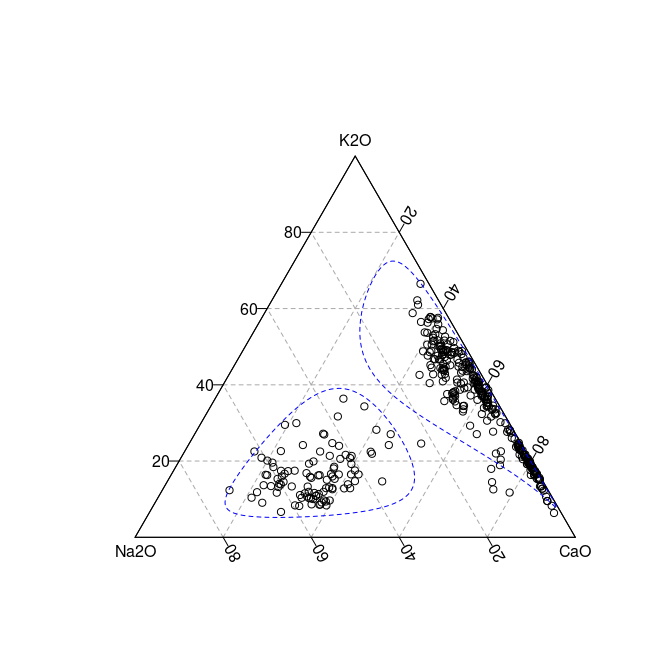
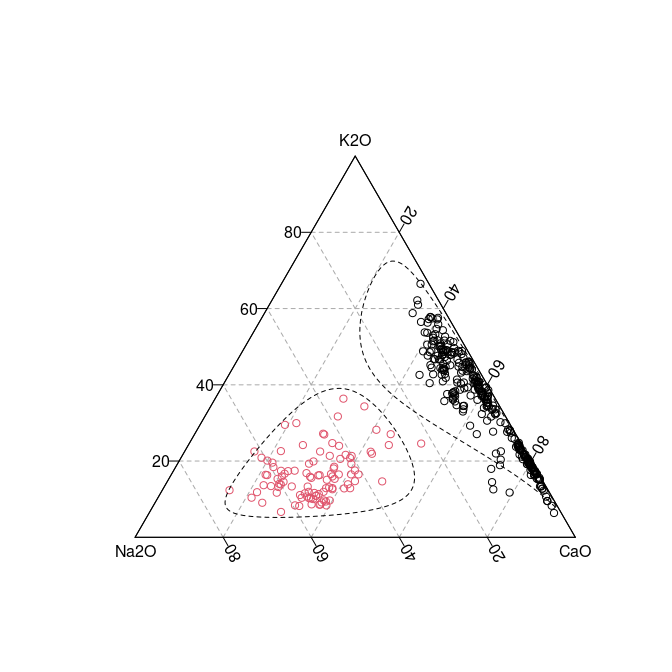
Update README

diff --git a/README.md b/README.md
@@ -9,9 +9,13 @@
 [![codecov](https://codecov.io/gh/tesselle/isopleuros/branch/main/graph/badge.svg)](https://app.codecov.io/gh/tesselle/isopleuros)
 [![CodeFactor](https://www.codefactor.io/repository/github/tesselle/isopleuros/badge/main)](https://www.codefactor.io/repository/github/tesselle/isopleuros/overview/main)
 
-[![Project Status: WIP – Initial development is in progress, but there
-has not yet been a stable, usable release suitable for the
-public.](https://www.repostatus.org/badges/latest/wip.svg)](https://www.repostatus.org/#wip)
+<a href="https://tesselle.r-universe.dev" class="pkgdown-devel"><img
+src="https://tesselle.r-universe.dev/badges/isopleuros"
+alt="r-universe" /></a>
+
+[![Project Status: Active – The project has reached a stable, usable
+state and is being actively
+developed.](https://www.repostatus.org/badges/latest/active.svg)](https://www.repostatus.org/#active)
 <!-- badges: end -->
 
 ## Overview
@@ -50,9 +54,6 @@ remotes::install_github("tesselle/isopleuros")
 library(isopleuros)
 ```
 
-**isopleuros** tries to mimic the way **graphics** works as much as
-possible.
-
 ``` r
 ## Install extra package (if needed)
 # install.packages("folio")
@@ -64,14 +65,18 @@ data("verre", package = "folio")
 coda <- verre[, c("Na2O", "CaO", "K2O")]
 
 ## Ternary plot
-ternary_plot(coda, panel.first = ternary_grid())
+ternary_plot(
+  x = coda, 
+  panel.first = ternary_grid(),
+  col = as.factor(coda$Na2O > 5),
+)
 
 ## Split data
 groups <- split(coda, f = coda$Na2O > 5)
 
 ## Add tolerance ellipses
 for (group in groups) {
-  ternary_tolerance(group, level = 0.975, border = "blue", lty = 2)
+  ternary_tolerance(group, level = 0.975, lty = 2)
 }
 ```
 
